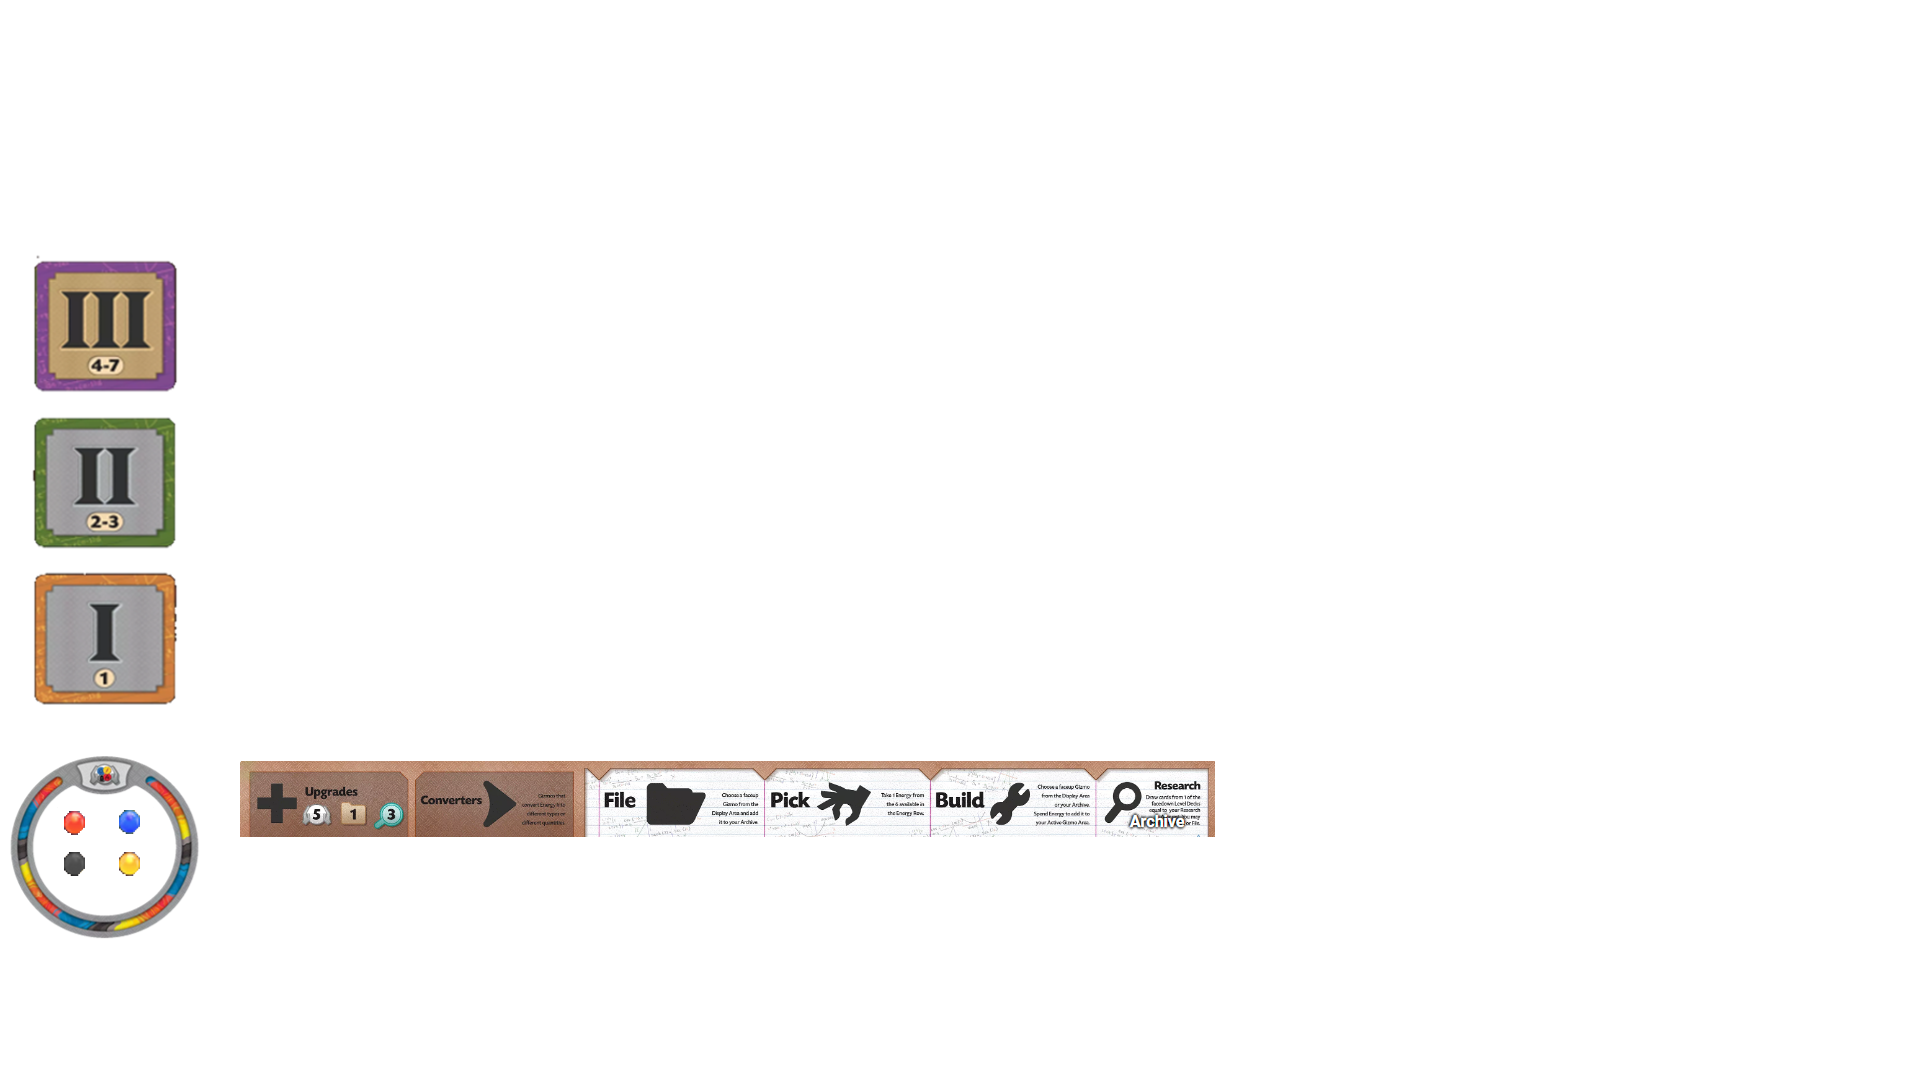
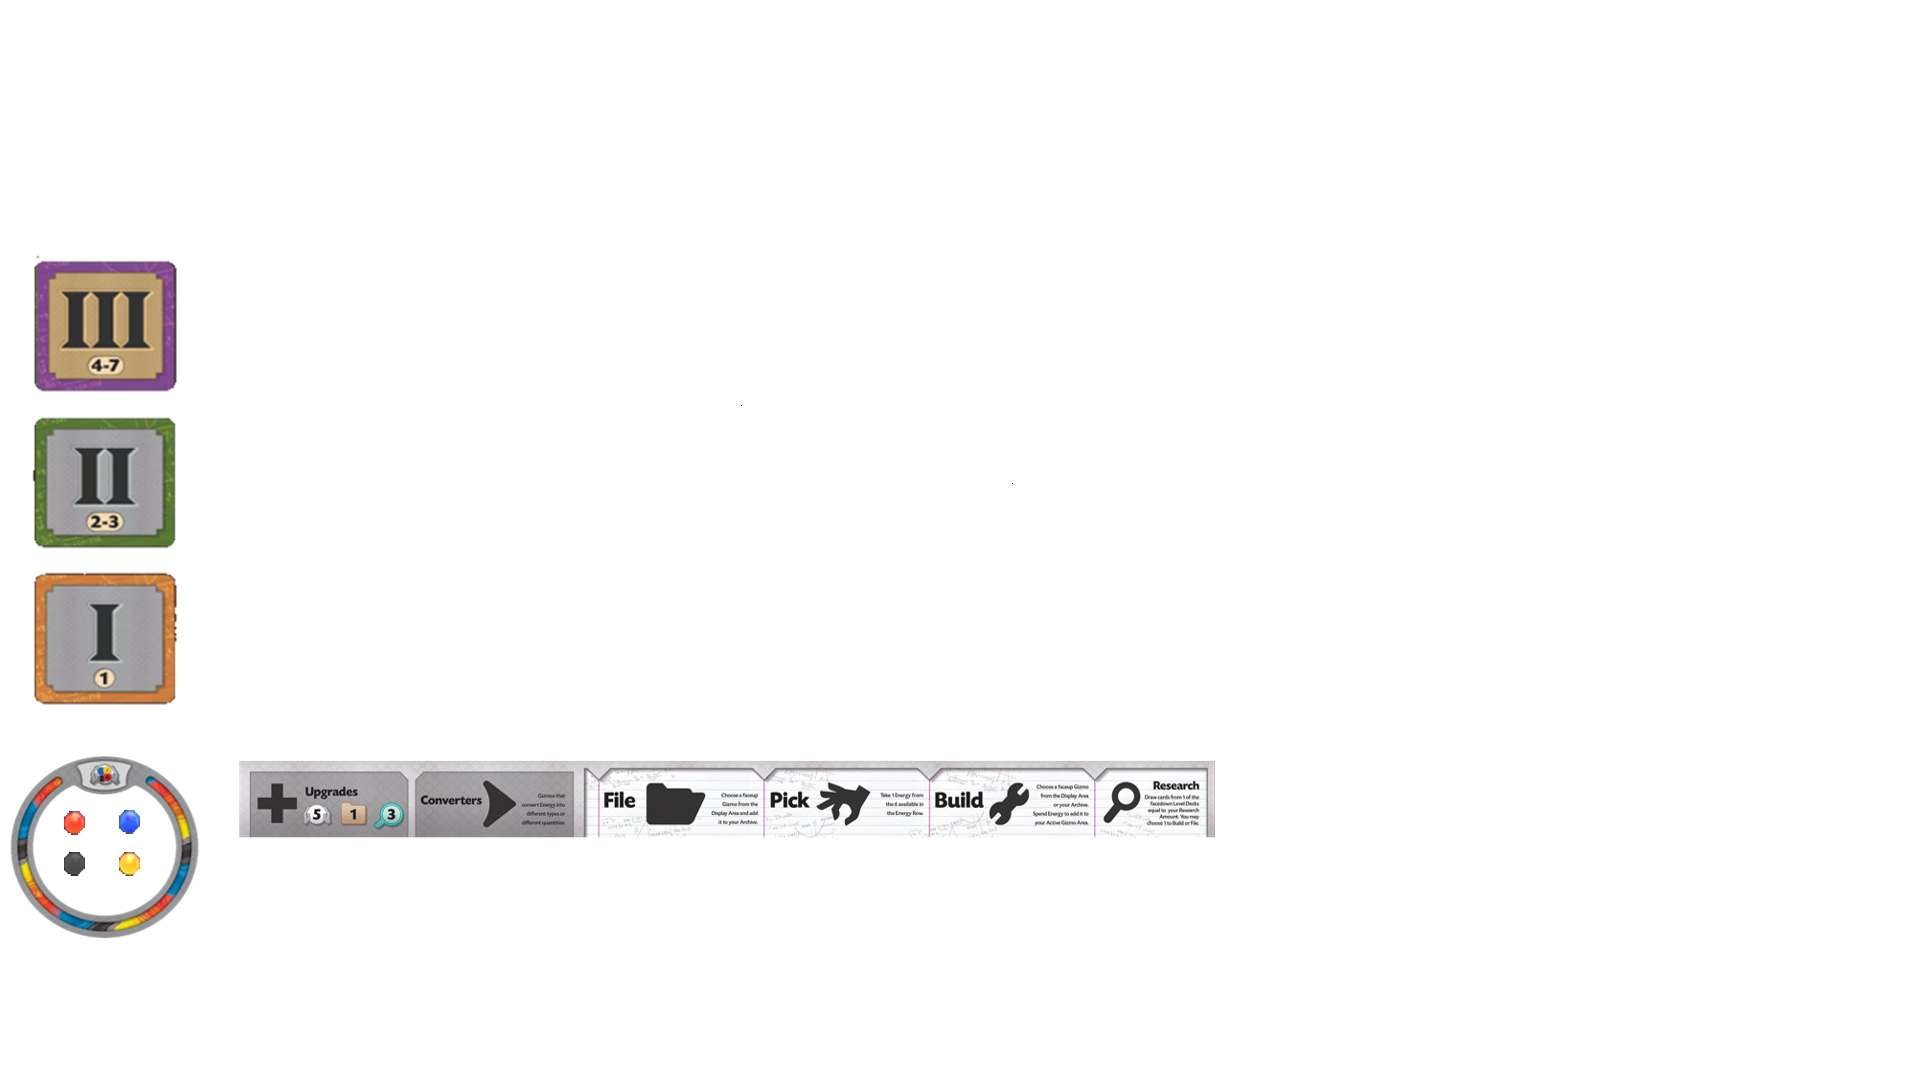
made 1st player panel gray

Changed region(s): [[0.125, 0.7028, 0.6562, 0.7944]]

diff --git a/BoardPanel.java b/BoardPanel.java
@@ -17,7 +17,7 @@ public class BoardPanel extends JPanel implements MouseListener {
 	private ArrayList<Marble> marbles;
 	private ArrayList<Player> players;
 	private boolean firstDraw;
-	private BufferedImage background, playergui, gizmoSheet1, gizmoSheet2;
+	private BufferedImage background, playergui, player1gui, gizmoSheet1, gizmoSheet2;
 	private int yellowCount, redCount, greyCount, blueCount;
 	private Rectangle marbleBound1, marbleBound2, marbleBound3, marbleBound4, marbleBound5, marbleBound6; // temporary
 																											// hardcode
@@ -165,6 +165,7 @@ public class BoardPanel extends JPanel implements MouseListener {
 			playergui = ImageIO.read(BoardFrame.class.getResource("/images/playergui.png"));
 			gizmoSheet1 = ImageIO.read(BoardFrame.class.getResource("/images/sheet1.jpg"));
 			gizmoSheet2 = ImageIO.read(BoardFrame.class.getResource("/images/sheet2.jpg"));
+			player1gui = ImageIO.read(BoardFrame.class.getResource("/images/player1gui.png"));
 		} catch (IOException e) {
 			throw new RuntimeException(e);
 		}
@@ -311,7 +312,8 @@ public class BoardPanel extends JPanel implements MouseListener {
 		}
 
 		g.drawImage(background, 0, 0, null);
-		g.drawImage(playergui, 0, -180, null);
+		if (currentPlayer == 0) { g.drawImage(player1gui, 0, -180, null); }
+		else { g.drawImage(playergui, 0, -180, null); }
 		g.drawImage(marbleDispenser, 0, 0, null);
 		g.setFont(new Font("Proxima Nova", Font.PLAIN, 25));
 		g.setColor(Color.BLACK);
